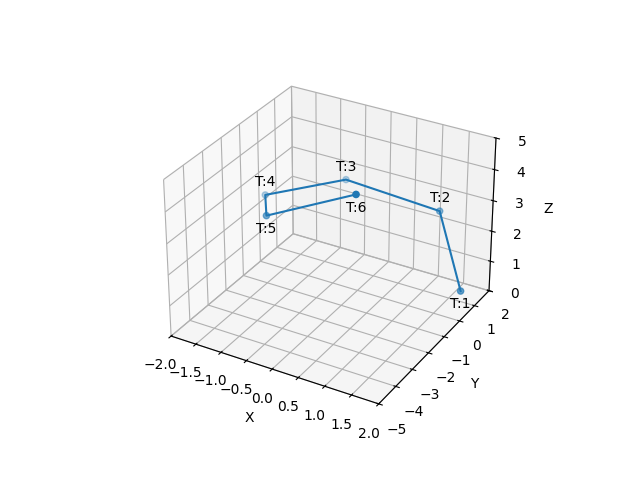
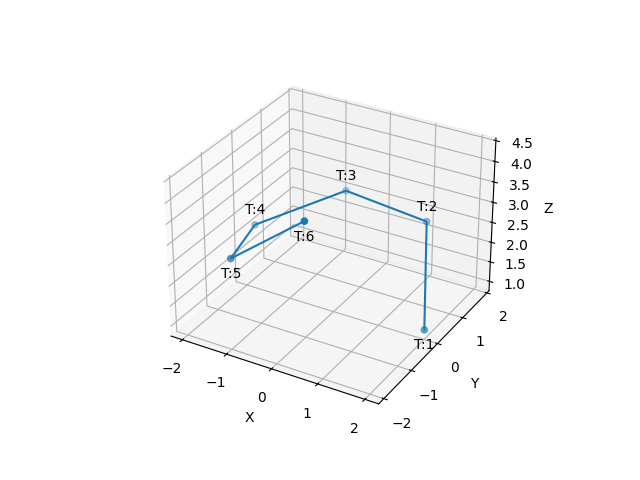
Changes in acceleration model

diff --git a/acceleration_model_old_version.py b/acceleration_model_old_version.py
@@ -1,0 +1,133 @@
+# Loading data
+
+import numpy as np
+from Trajectory import plot_trajectory
+
+
+# Load data into np array
+x_coords = np.array([2.00, 1.08, -0.83, -1.97, -1.31, 0.57])
+y_coords = np.array([0.00, 1.68, 1.82, 0.28, -1.51, -1.91])
+z_coords = np.array([1.00, 2.38, 2.49, 2.15, 2.59, 4.32])
+
+coordinates = np.vstack([x_coords, y_coords, z_coords]).transpose()
+time_record = np.array([1.00, 2.00, 3.00, 4.00, 5.00, 6.00])
+
+
+
+def train(positions, times):
+
+    def objective_function(positions, times, params):
+        error = 0
+        for p, t in zip(positions, times):
+            error += (p - (params[0] + params[1] * t + params[2] * t ** 2)) ** 2
+        return error
+
+    def gradient_vector(positions, times, params):
+        gradient_vector = []
+        # Calculate components
+        for i, param in enumerate(params):
+            gradient = 0
+            for p, t in zip(positions, times):
+                gradient += 2 * (p - (params[0] + params[1] * t + params[2] * t ** 2)) * t ** i
+            gradient_vector.append(gradient)
+        return np.array(gradient_vector)
+
+    def gradient_descent(positions, times, learn_rate=0.0001, max_iter=100, tol=0.001):
+        # params = np.random.uniform(1.0, 3.0, size=3)
+        params = np.array([0,1,1])
+        for it in range(max_iter):
+            diff = learn_rate * gradient_vector(positions, times, params)
+            if np.all(np.abs(diff) < tol):
+                break
+            params = params + diff
+        return params
+
+    params = gradient_descent(positions, times)
+    e = objective_function(coordinates, time_record, params)
+
+    return params, e
+
+print(train(coordinates, time_record))
+
+trained_model = train(coordinates, time_record)
+
+def predict(model, times):
+    params = trained_model[0]
+    error = trained_model[1]
+    predictions = []
+    for t in times:
+        predicted_position = params[0] + params[1] * t + params[2] * t ** 2
+        predictions.append(predicted_position)
+
+    return predictions
+
+print(predict(trained_model, time_record))
+predictions = predict(trained_model, time_record)
+
+
+#Print predicitions
+x = []
+y = []
+z = []
+for prediction in predictions:
+    x.append(prediction[0])
+    y.append(prediction[1])
+    z.append(prediction[2])
+
+
+
+#
+# # params = train()
+# #
+# # def predict(params):
+# # def objective_function(positions, times):
+#
+#
+# # Define error function
+# def error_function(positions, times, params):
+#     e = 0
+#     for p, t in zip(positions, times):
+#         e += (p - (params[0] + params[1]*t +params[2]*t**2))**2
+#     return e
+#
+#
+# #Define gradient function: derivative of error function
+# def gradient_function(positions, times, params):
+#     gradient_vector = []
+#     # Calculate components
+#     for i, param in enumerate(params):
+#         gradient = 0
+#         for p, t in zip(positions, times):
+#             gradient += 2 * (p - (params[0] + params[1] * t + params[2] * t ** 2)) * t ** i
+#         gradient_vector.append(gradient)
+#     return np.array(gradient_vector)
+#
+#
+# def gradient_descent(positions, times, function, gradient, learn_rate, max_iter, tol=0.001):
+#     """
+#     Performs gradient descent to minimize a given function.
+#
+#     Parameters:
+#     start (float): The starting point for the algorithm.
+#     function (callable): The function to minimize.
+#     gradient (callable): The gradient of the function.
+#     learn_rate (float): The learning rate (step size).
+#     max_iter (int): The maximum number of iterations.
+#     tol (float): The tolerance for stopping the algorithm.
+#
+#     Returns:
+#     float: The point at which the function is minimized.
+#     """
+#     params = np.random.randint(1, 10, size=3) # Initialize the starting point
+#     for it in range(max_iter):
+#         diff = learn_rate * gradient(positions, times, params)  # Calculate the step size
+#         if np.any(np.abs(diff) < tol):  # Check if the step size is smaller than the tolerance
+#             break  # If yes, stop the algorithm
+#         #print("iteration =", it, "\t\tparams =", "{:.5f}".format(params), "\t\tf(x) =", "{:.3f}".format(function(x)))
+#         params = params + diff  # Update the current point
+#     return params
+#
+# plot_trajectory(x_coords, y_coords, z_coords)
+# print(gradient_descent(coordinates, time_record, error_function, gradient_function, 0.0001, 100))
+
+

diff --git a/constant_acceleration.py b/constant_acceleration.py
@@ -39,12 +39,12 @@ class acceleration_model:
             return np.array(gradient_vector)
 
         def gradient_descent(positions, times, learn_rate, max_iter, tol):
-            params = np.array([0,0,0])
+            params = np.array([0,1,1])
             for it in range(max_iter):
                 diff = learn_rate * gradient_vector(positions, times, params)
                 if np.all(np.abs(diff) < tol):
                     break
-            params = params - diff
+                params = params - diff
             return params
 
         params = gradient_descent(positions, times, learn_rate, max_iter, tol)
@@ -53,7 +53,7 @@ class acceleration_model:
 
     def predict(self, model, times):
         params = model[0]
-        if type(times) == list:
+        if isinstance(times,list) or isinstance(times, np.ndarray):
             predictions = []
             for t in times:
                 predicted_position = params[0] + params[1] * t + params[2] * t ** 2
@@ -63,32 +63,18 @@ class acceleration_model:
             predicted_position = params[0] + params[1] * times + params[2] * times ** 2
             return predicted_position
 
-a = acceleration_model()
-trained = a.train(z_coords, time_record, 0.0001, 100, 0.01)
-print(trained)
 
-# print(predict(trained_model, time_record))
-# Predict positions from second 1 to 7
-# time_record_1 = np.append(time_record, 7.00)
-# predictions = predict(trained_model, time_record_1)
-# sec_7 = predictions[-1]
-# x_1 = np.append(x_coords, sec_7[0])
-# y_1 = np.append(y_coords, sec_7[1])
-# z_1 = np.append(z_coords, sec_7[2])
-#
-# #Plot predictions and positions
-# x = []
-# y = []
-# z = []
-# for prediction in predictions:
-#     x.append(prediction[0])
-#     y.append(prediction[1])
-#     z.append(prediction[2])
-#
-#
-# fig_1 = plot_trajectory(x_1, y_1, z_1)
-# fig_1.savefig('output/second_7.png')
-# fig_1.suptitle("Predicted postions")
-# fig_2 = plot_trajectory(x, y, z)
-# fig_2.savefig('output/predicted.png')
-# fig_2.suptitle("Predicted position at t=7")
+x_axis = acceleration_model()
+trained_model_x = x_axis.train(x_coords, time_record, learn_rate=0.0001, max_iter=100000, tol=0.0001)
+print(trained_model_x)
+y_axis = acceleration_model()
+trained_model_y = y_axis.train(y_coords, time_record, learn_rate=0.0001, max_iter=10000, tol=0.0001)
+print(trained_model_y)
+z_axis = acceleration_model()
+trained_model_z = z_axis.train(z_coords, time_record, learn_rate=0.0001, max_iter=10000, tol=0.0001)
+print(trained_model_z)
+
+prediction_x = x_axis.predict(trained_model_x, time_record)
+prediction_y = y_axis.predict(trained_model_y, time_record)
+prediction_z = z_axis.predict(trained_model_z, time_record)
+plot_trajectory(prediction_x, prediction_y, prediction_z)

diff --git a/main.py b/main.py
@@ -54,11 +54,11 @@ visualize(x_new,y_new,z_new,x,y,z)
 
 # Start of 2.2.b
 x_axis = acceleration_model()
-trained_model_x = x_axis.train(x, t, learn_rate=0.0001, max_iter=100, tol=0.01)
+trained_model_x = x_axis.train(x, t, learn_rate=0.0002, max_iter=100, tol=0.01)
 y_axis = acceleration_model()
-trained_model_y = y_axis.train(y, t, learn_rate=0.0001, max_iter=100, tol=0.01)
+trained_model_y = y_axis.train(y, t, learn_rate=0.0002, max_iter=100, tol=0.01)
 z_axis = acceleration_model()
-trained_model_z = z_axis.train(z, t, learn_rate=0.0001, max_iter=100, tol=0.01)
+trained_model_z = z_axis.train(z, t, learn_rate=0.0002, max_iter=100, tol=0.01)
 
 print("\nFinal values for constant acceleration case:")
 print(f"Parameters for x --> a0: {trained_model_x[0][0]:.3f}, a1: {trained_model_x[0][1]:.3f}, a2:{trained_model_x[0][2]:.3f}")
@@ -67,3 +67,17 @@ print(f"Parameters for z --> a0: {trained_model_z[0][0]:.3f}, a1: {trained_model
 print(f"SSE_x : {trained_model_x[1]:.3f}")
 print(f"SSE_y : {trained_model_y[1]:.3f}")
 print(f"SSE_z : {trained_model_z[1]:.3f}")
+
+# End of 2.2.b
+
+# Start of 2.2.c
+prediction_x = x_axis.predict(trained_model_x, 7)
+prediction_y = y_axis.predict(trained_model_y, 7)
+prediction_z = z_axis.predict(trained_model_z, 7)
+predicted_position = np.array([prediction_x, prediction_y, prediction_z])
+x_7 = np.append(x, prediction_x)
+y_7 = np.append(y, prediction_y)
+z_7 = np.append(z, prediction_z)
+plot_trajectory(x_7,y_7,z_7)
+
+# End of 2.2.c

diff --git a/Trajectory.py b/Trajectory.py
@@ -10,9 +10,9 @@ def plot_trajectory(x,y,z):
     ax.set_zlabel('Z')
 
     #Set limit for axes
-    ax.set_xlim(-2, 2)
-    ax.set_ylim(-5, 2)
-    ax.set_zlim(0, 5)
+    # ax.set_xlim(-2, 2)
+    # ax.set_ylim(-5, 2)
+    # ax.set_zlim(0, 5)
 
     time = []
     for i in range(1, len(x)+1):
